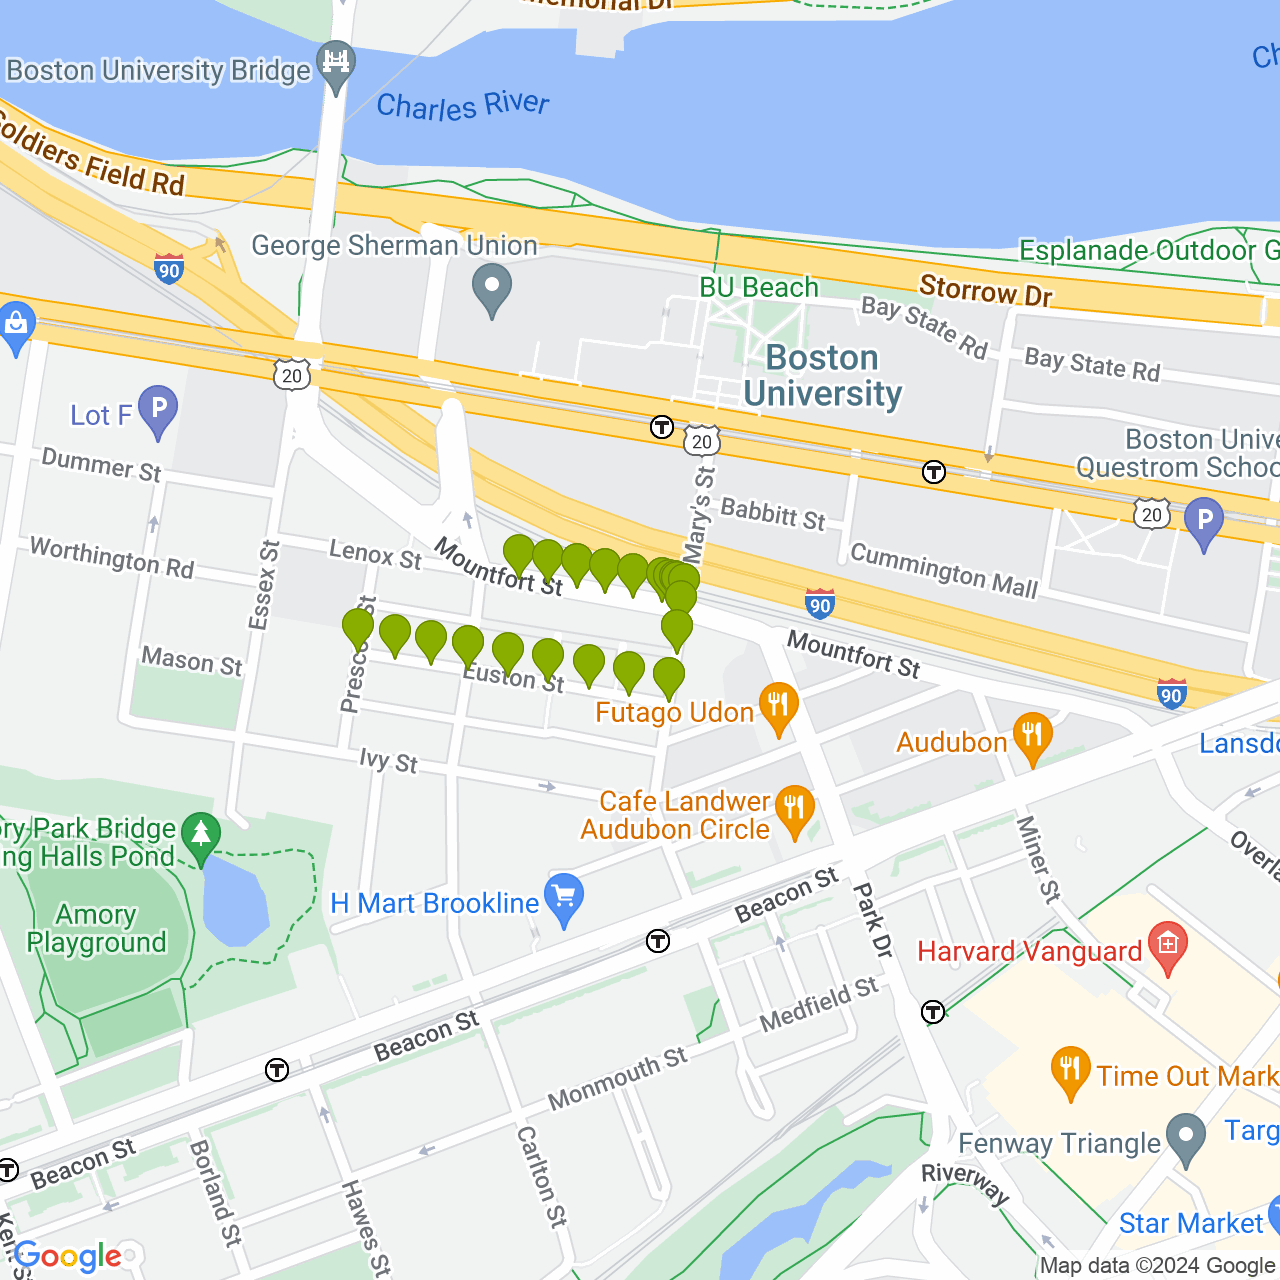
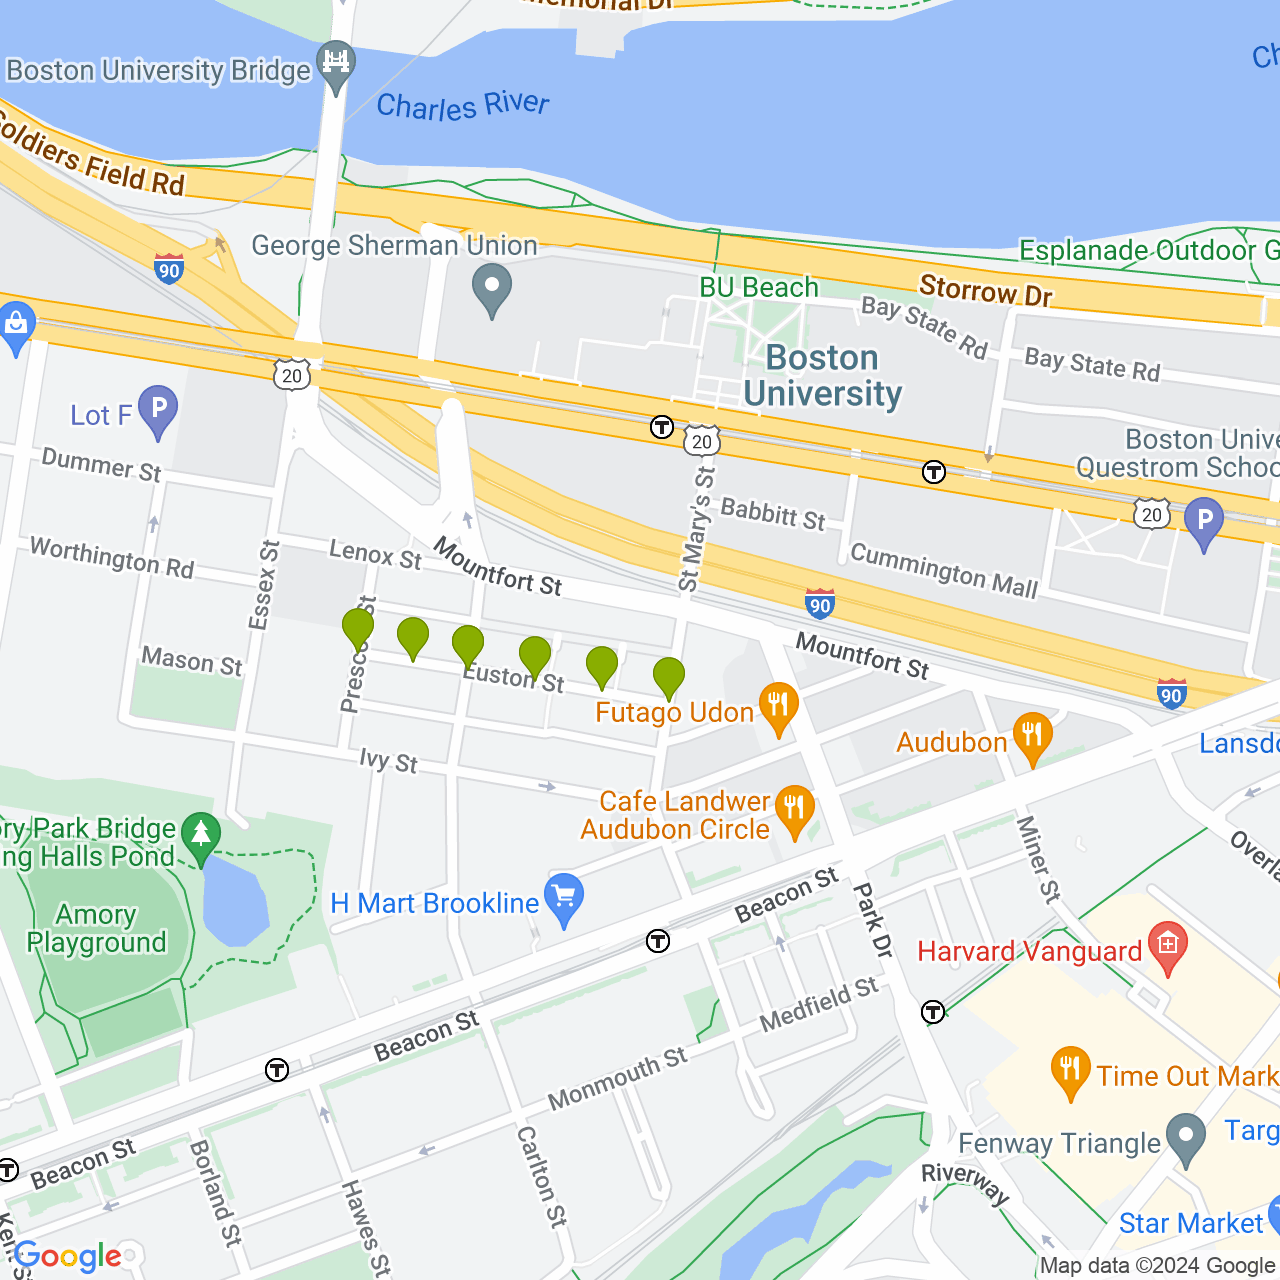
Updated to fix some errors with mapping function.. TODO -- > FIX OSM ERRORS IMPTgit status

Changed region(s): [[0.3438, 0.4062, 0.5625, 0.5625], [0.2812, 0.4688, 0.3438, 0.5312], [0.625, 0.5, 0.7188, 0.5312]]

diff --git a/services/osm.py b/services/osm.py
@@ -29,30 +29,30 @@ def map_geo_data(old_data):
             for inner_pair in coordinate_list:
                 dist_vec.append(math.sqrt(math.pow(coordinate_pair[0]-inner_pair[0],2) + math.pow(coordinate_pair[1]-inner_pair[1],2)))
             dist_mat.append(dist_vec)
-    # USE DIST_MAT MAX INDICES AS SOURCES
-    max_list = []
-    for idx, _ in enumerate(coordinate_list):
-        dist_row = dist_mat[idx]
-        max_list.append(max(dist_row))
-    source_idx = max_list.index(max(max_list))
-    street_source[street] = (source_idx, coordinate_list[source_idx])
-    street_coord_in_order = []
-    source = street_source[street][0]
-    count = 0
-    while True:
-        if count > 200: # should never be here
-            break
-        count += 1
-        street_coord_in_order.append(coordinate_list[source])
-        coord = coordinate_list[source]
-        coordinate_list.pop(source)
-        d = []
-        if(len(coordinate_list) == 0):
-            break
-        for pair in coordinate_list:
-            d.append(math.sqrt(math.pow(pair[0]-coord[0],2) + math.pow(pair[1]-coord[1],2)))
-        source = d.index(min(d))
-    street_coord_list[street] = street_coord_in_order
+        # USE DIST_MAT MAX INDICES AS SOURCES
+        max_list = []
+        for idx, _ in enumerate(coordinate_list):
+            dist_row = dist_mat[idx]
+            max_list.append(max(dist_row))
+        source_idx = max_list.index(max(max_list))
+        street_source[street] = (source_idx, coordinate_list[source_idx])
+        street_coord_in_order = []
+        source = street_source[street][0]
+        count = 0
+        while True:
+            if count > 200: # should never be here
+                break
+            count += 1
+            street_coord_in_order.append(coordinate_list[source])
+            coord = coordinate_list[source]
+            coordinate_list.pop(source)
+            d = []
+            if(len(coordinate_list) == 0):
+                break
+            for pair in coordinate_list:
+                d.append(math.sqrt(math.pow(pair[0]-coord[0],2) + math.pow(pair[1]-coord[1],2)))
+            source = d.index(min(d))
+        street_coord_list[street] = street_coord_in_order
     
     return street_coord_list
 

diff --git a/services/park.py b/services/park.py
@@ -4,10 +4,32 @@ import requests
 import json
 from services.osm import query_osm
 from services.ml import run_model
+import os
 
 parser = reqparse.RequestParser() # to parse JSON request
 parser.add_argument('address', required=True, help="Address may not be blank...")
 parser.add_argument('radius', required=True, help="Radius cannot be blank...")
+
+def display_map(radius, lat, long, examined_locations):
+    markers_string = "size:small|color:green"
+    for street in examined_locations:
+        for location in examined_locations[street]['coordinates']:
+            markers_string += '|' + (str(location[0]) + ',' + str(location[1]))
+    static_image_params = {
+        "key": config.map_api_key,
+        "center": (str(lat) + ',' + str(long)),
+        "zoom": 16,
+        "size": "640x640",
+        "scale": 2,
+        "markers": markers_string
+    }
+    img = requests.get("https://maps.googleapis.com/maps/api/staticmap", params=static_image_params).content
+    image_dir = "./map"
+    if not os.path.exists(image_dir):
+        os.makedirs(image_dir)
+    file_path = os.path.join(image_dir, "visited.jpg")
+    with open(file_path, 'wb') as handler:
+        handler.write(img)
 
 class ParkAPI(Resource):
     def post(self):
@@ -39,15 +61,17 @@ class ParkAPI(Resource):
             ################## MAP DATA QUERY ##################
             street_coord_list = query_osm(lat, long, radius)
             ################## ML ######################
+            print(street_coord_list)
             examined_locations = run_model(street_coord_list)
             print(examined_locations)
+            display_map(radius, lat, long, examined_locations) # debug
             ################## /ML/ ######################
             with open('mock_data/temp.json', 'w') as fp:
                 json.dump(examined_locations, fp)
             return examined_locations
         except Exception as e:
             return {"Error": e}, 500
-
+        
 """
     PROOF OF CONCEPT: DISPLAY A RED MARKER FOR METER LOCATIONS
 """

diff --git a/services/ml.py b/services/ml.py
@@ -21,7 +21,10 @@ def run_query(head_x_y):
     fov = "&fov=80"
     api = "&key=" + config.map_api_key
     location = "&location=" + str(x) + "," + str(y)
-    return Image.open(io.BytesIO(requests.get("https://maps.googleapis.com/maps/api/streetview" + size + location + pitch + fov + "&heading=" + str(heading) + api).content))
+    try:
+        return Image.open(io.BytesIO(requests.get("https://maps.googleapis.com/maps/api/streetview" + size + location + pitch + fov + "&heading=" + str(heading) + api).content))
+    except:
+        return None
 
 def run_model(street_coord_list):
     locations = {}
@@ -39,12 +42,12 @@ def run_model(street_coord_list):
                 dy = yf - yi
                 dx = xf - xi
                 base_heading = generate_base_heading(dy, dx)
-                headings = [base_heading]
-                for _ in range(7):
-                    base_heading = (base_heading + 45) % 360
+                headings = [base_heading + 45]
+                for _ in range(3):
+                    base_heading = (base_heading + 90) % 360
                     headings.append(base_heading)
                 d = math.sqrt((xf - xi) ** 2 + (yf - yi) ** 2)
-                steps = int(d * 500)
+                steps = int(d * 1000)
                 steps = steps + 1
                 dx = (xf - xi) / steps
                 dy = (yf - yi) / steps
@@ -67,6 +70,8 @@ def run_model(street_coord_list):
                         for result in pool.map(run_query, heading_x_ys):
                             img.append(result)
                     for im in img:
+                        if im is None:
+                            continue
                         results = meters.predict(im)
                         result = results[0]
                         if len(result.boxes):
@@ -90,3 +95,4 @@ def run_model(street_coord_list):
                         else:
                             print("Image Analyzed - Meter Not Found")
                             continue
+    return locations
